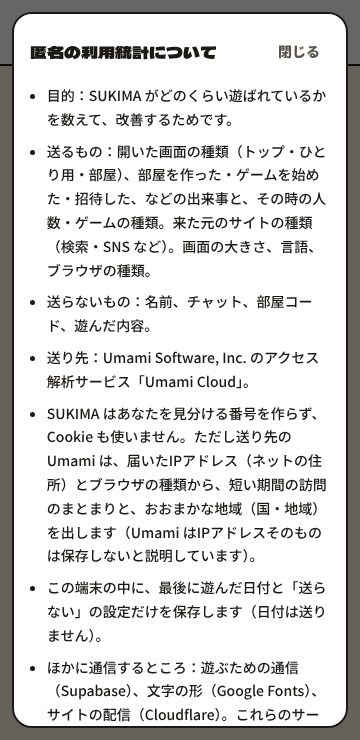
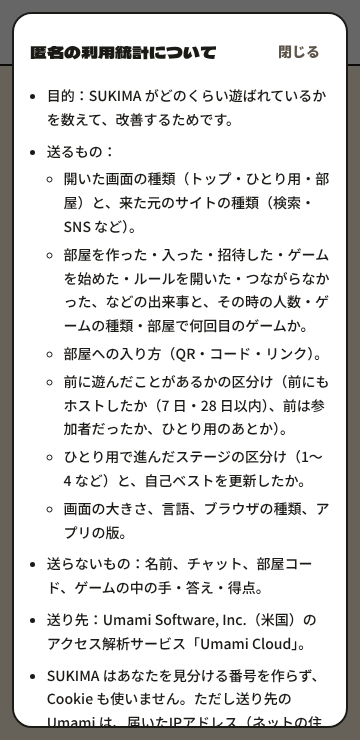
Privacy: show actual sending state, name Umami's country, retake shots
Claude-Session: https://claude.ai/code/session_01H41cTqMxdqRgXVNK8y2DkT

Changed region(s): [[0.1222, 0.1865, 0.9167, 0.9946], [0.0611, 0.9014, 0.0917, 0.9324]]

diff --git a/src/components/Privacy.tsx b/src/components/Privacy.tsx
@@ -1,13 +1,13 @@
 import { useCallback, useEffect, useRef, useState } from 'react';
 import { goHome } from '../App';
-import { isMetricsOptedOut, setMetricsOptOut } from '../lib/analytics';
+import { isMetricsOptedOut, metricsAllowed, setMetricsOptOut } from '../lib/analytics';
 import { Brand } from './Layout';
 import { Panel } from './ui';
 
 // 匿名の利用統計の説明（docs/dev/02-architecture.md §14.5・M-C7）。
 // 外部送信規律の「公表」の 3 項目（送る情報・送り先・目的）と「送らない」の切り替えを 1 か所にまとめ、
 // 単独の画面（#/privacy）と、部屋・ひとり用の画面のモーダルで同じ中身を使う。
-// 送り先の会社名は【要確認】（§14.10 の 8）。公開前に Umami の規約で正式名称を確かめて直す
+// 送り先の運営会社は Umami Software, Inc.（米国。Umami の DPA に記載）
 export function PrivacyContent() {
   const [off, setOff] = useState(isMetricsOptedOut);
   const [saveFailed, setSaveFailed] = useState(false);
@@ -17,6 +17,10 @@ export function PrivacyContent() {
     setOff(isMetricsOptedOut());
     setSaveFailed(!saved);
   };
+  // 「送る」を選んでいても、追跡しない・GPC・本番以外・ID 未設定などで実際には送らないことがある。
+  // 選んだ値だけを見て「送る」と出すと事実と違うので、送るかどうかの判定（metricsAllowed）そのものを見て表示する。
+  // 描画のたびに判定するので、ボタンを押して再描画されれば最新になる
+  const status = off ? '送らない' : metricsAllowed() ? '送る' : '送っていません（ブラウザの設定などのため）';
   return (
     <div className="privacy-body">
       <ul className="privacy-list">
@@ -37,7 +41,7 @@ export function PrivacyContent() {
           </ul>
         </li>
         <li>送らないもの：名前、チャット、部屋コード、ゲームの中の手・答え・得点。</li>
-        <li>送り先：Umami Software, Inc. のアクセス解析サービス「Umami Cloud」。</li>
+        <li>送り先：Umami Software, Inc.（米国）のアクセス解析サービス「Umami Cloud」。</li>
         <li>
           SUKIMA はあなたを見分ける番号を作らず、Cookie も使いません。ただし送り先の Umami
           は、届いたIPアドレス（ネットの住所）とブラウザの種類から、短い期間の訪問のまとまりと、おおまかな地域（国・地域）を出します（Umami
@@ -53,7 +57,7 @@ export function PrivacyContent() {
       </ul>
       <div className="privacy-switch">
         <p className="label" id="privacy-switch-label">
-          この端末からの送信：<strong>{off ? '送らない' : '送る'}</strong>
+          この端末からの送信：<strong>{status}</strong>
         </p>
         <div className="segmented" role="group" aria-labelledby="privacy-switch-label">
           <button className={off ? 'selected' : ''} aria-pressed={off} onClick={() => choose(true)}>

diff --git a/src/components/Practice.tsx b/src/components/Practice.tsx
@@ -195,7 +195,8 @@ export default function Practice() {
         </a>
       </header>
       <main className="practice-main">{body}</main>
-      {/* 遊びの邪魔にならないよう、挑戦中は出さない（説明はモーダルで開くので、開いても挑戦は途切れない） */}
+      {/* 遊びの邪魔にならないよう、挑戦中（ラッシュの挑戦・単発の練習のどちらも）は出さない。
+          タイトルとゲームオーバーの画面でだけ出す（説明はモーダルで開くので、開いても画面は途切れない） */}
       {mode.kind !== 'challenge' && mode.kind !== 'single' && (
         <footer className="site-foot">
           <PrivacyLink />

diff --git a/src/lib/analytics.ts b/src/lib/analytics.ts
@@ -58,7 +58,7 @@ export type Analytics = {
   track(e: MetricEvent, url: string): void;
 };
 
-// 送り先【要確認：古い説明は cloud.umami.is/api/send。§14.10 の 2】
+// 送り先（Umami Cloud の現行の公式ドキュメント docs.umami.is/docs/api/sending-stats。古い説明の cloud.umami.is/api/send ではない）
 export const UMAMI_ENDPOINT = 'https://gateway.umami.is/api/send';
 export const DEFAULT_PROD_HOST = 'sukima-ee3.pages.dev';
 export const OPT_OUT_KEY = 'sukima:metrics:off';
